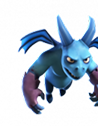
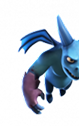
imagens lado direito adicionadas

diff --git a/index.html b/index.html
@@ -83,25 +83,31 @@
             <div class="topo-right">
                 <p class="next-text">next</p>
                 <img src="./img/Right Arrow.png" alt="seta-direira">
-                    <div class="texto-explicativo"></div>   
+                    <div class="texto-explicativo">   
                         <p class="parte-um">A pair of lightly armored ranged attackers.</p>
                         <p class="parte-um">Theyll help you take down ground and air</p>
                         <p class="parte-um">units, but you're on your own with hair</p>
-                        <div class="texto-explicativo-final">
+                    </div>
+                    <div class="texto-explicativo-final">
                             <p class="parte-um">coloring advice.</p>
                             <p class="parte-dois">More.</p>
-                        </div>
                     </div>
             </div>
             <div class="baixo-right">
                 <div class="bruxa">
-                    <div class="fundo-bruxa"></div>
+                    <div class="fundo-bruxa">
+                        <img src="./img/bruxa.png" alt="bruxa-png">
+                    </div>
                 </div>
                 <div class="principe">
-                    <div class="fundo-principe"></div>
+                    <div class="fundo-principe">
+                        <img src="./img/principe.png" alt="principe-png">
+                    </div>
                 </div>
                 <div class="servos">
-                    <div class="fundo-servos"></div>
+                    <div class="fundo-servos">
+                        <img src="./img/servos.png" alt="servos-png">
+                    </div>
                 </div>
             </div>
         </div>

diff --git a/css/style.css b/css/style.css
@@ -193,11 +193,9 @@ main{
 .right{
     height: 100%;
     width: 50%;
-    background-color:brown ;
 }
 .topo-right{
     height: 40%;
-    background-color: blue;
     display: flex;
     flex-direction: column;
 }
@@ -229,7 +227,40 @@ main{
 }
 .baixo-right{
     height: 60%;
+    display: flex;
+    justify-content: space-between;
     
+}
+.fundo-bruxa{
+    height: 200px;
+    width: 200px;
+    background-color: #6660B2;
+    border-radius: 40px;
+}
+.fundo-bruxa img{
+    height: 200px;
+    width: 200px;
+}
+.fundo-principe{
+    height: 200px;
+    width: 200px;
+    background-color: #917D40;
+    border-radius: 40px;
+}
+.fundo-principe img{
+    height: 200px;
+    width: 200px;
+}
+.fundo-servos{
+    height: 200px;
+    width: 100px;
+    background-color: #619ED7;
+    border-top-left-radius: 40px;
+    border-bottom-left-radius: 40px;
+}
+.fundo-servos img{
+    height: 200px;
+    width: 100px;
 }
 footer{
     height: 15vh;
